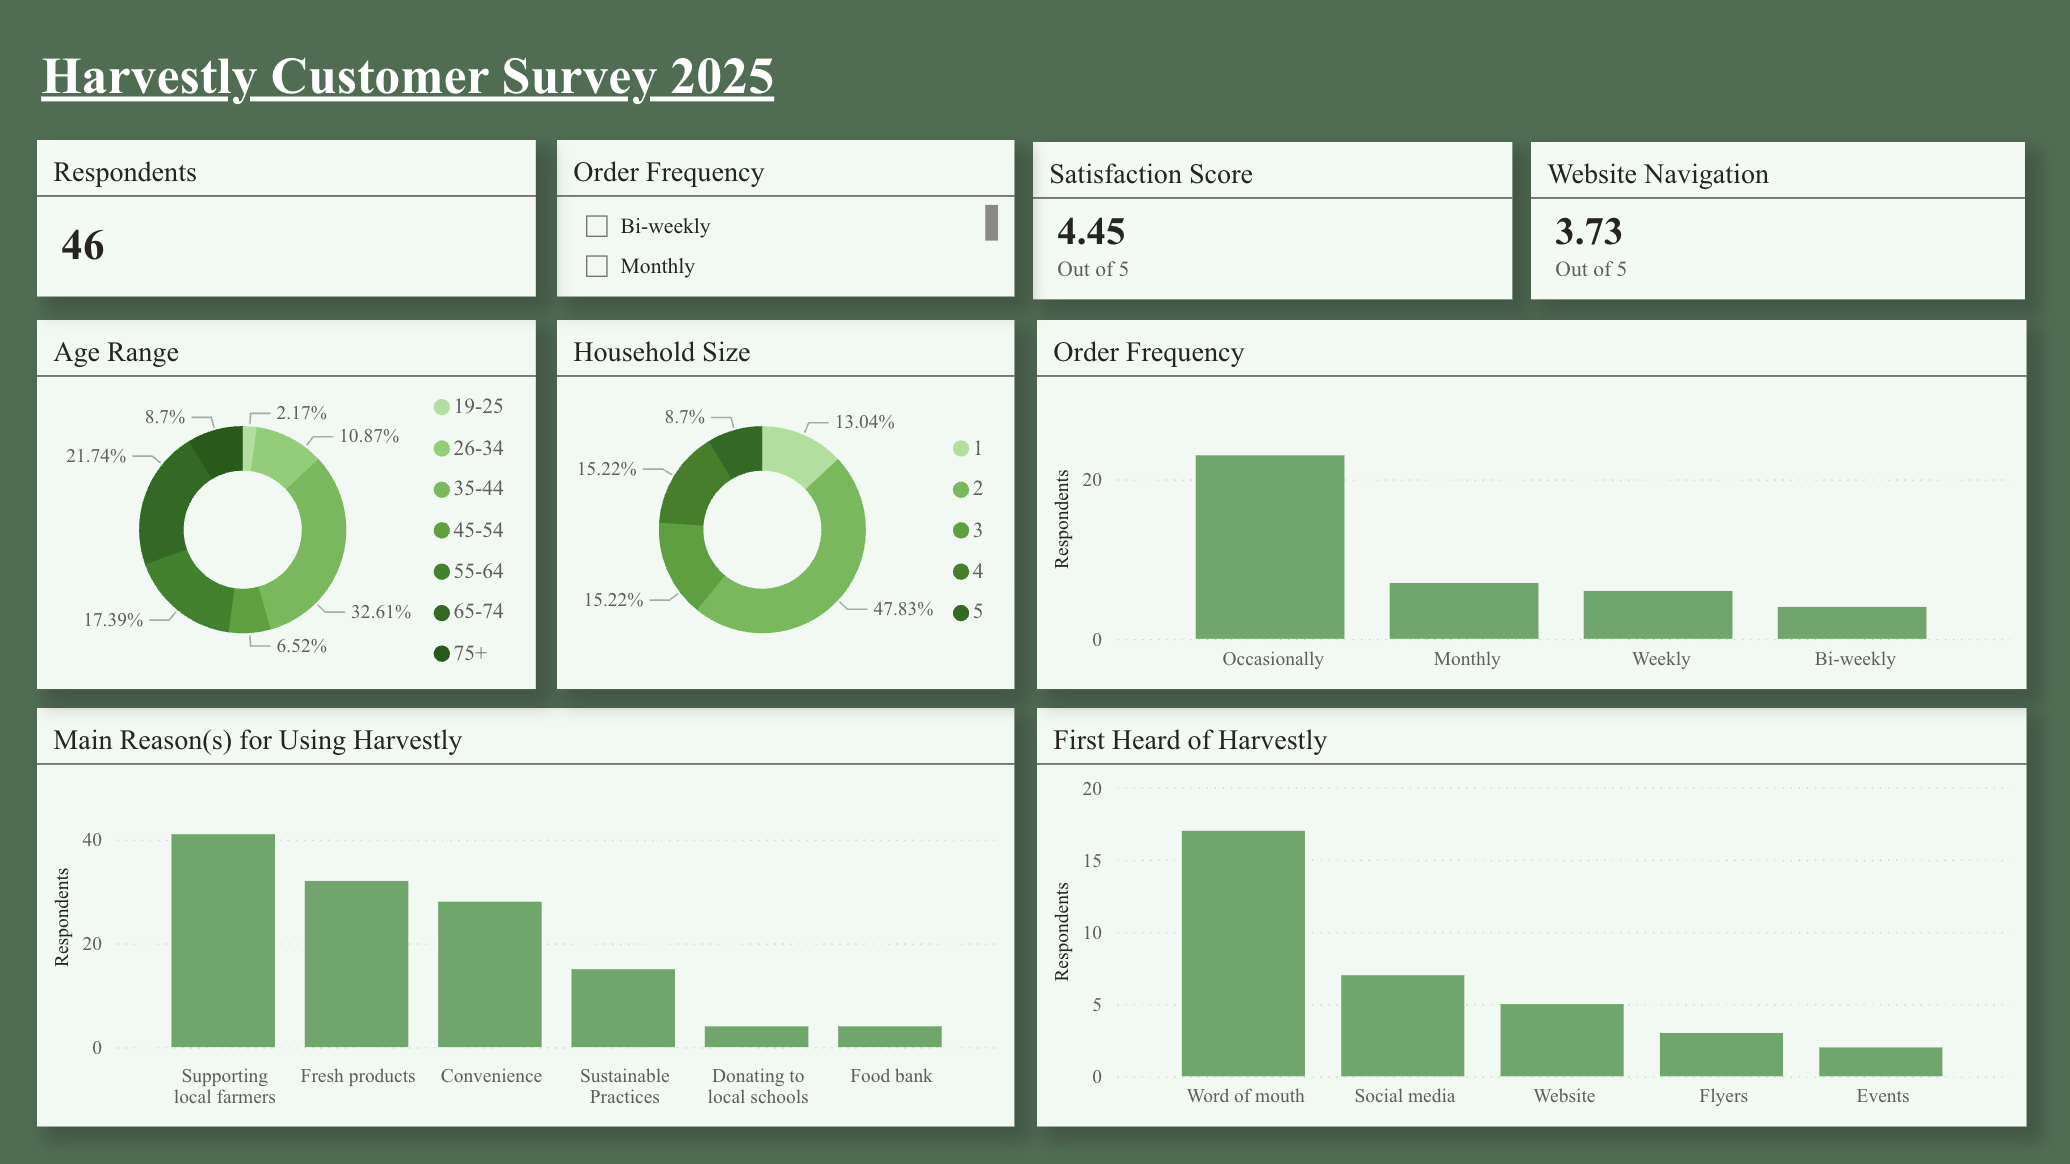
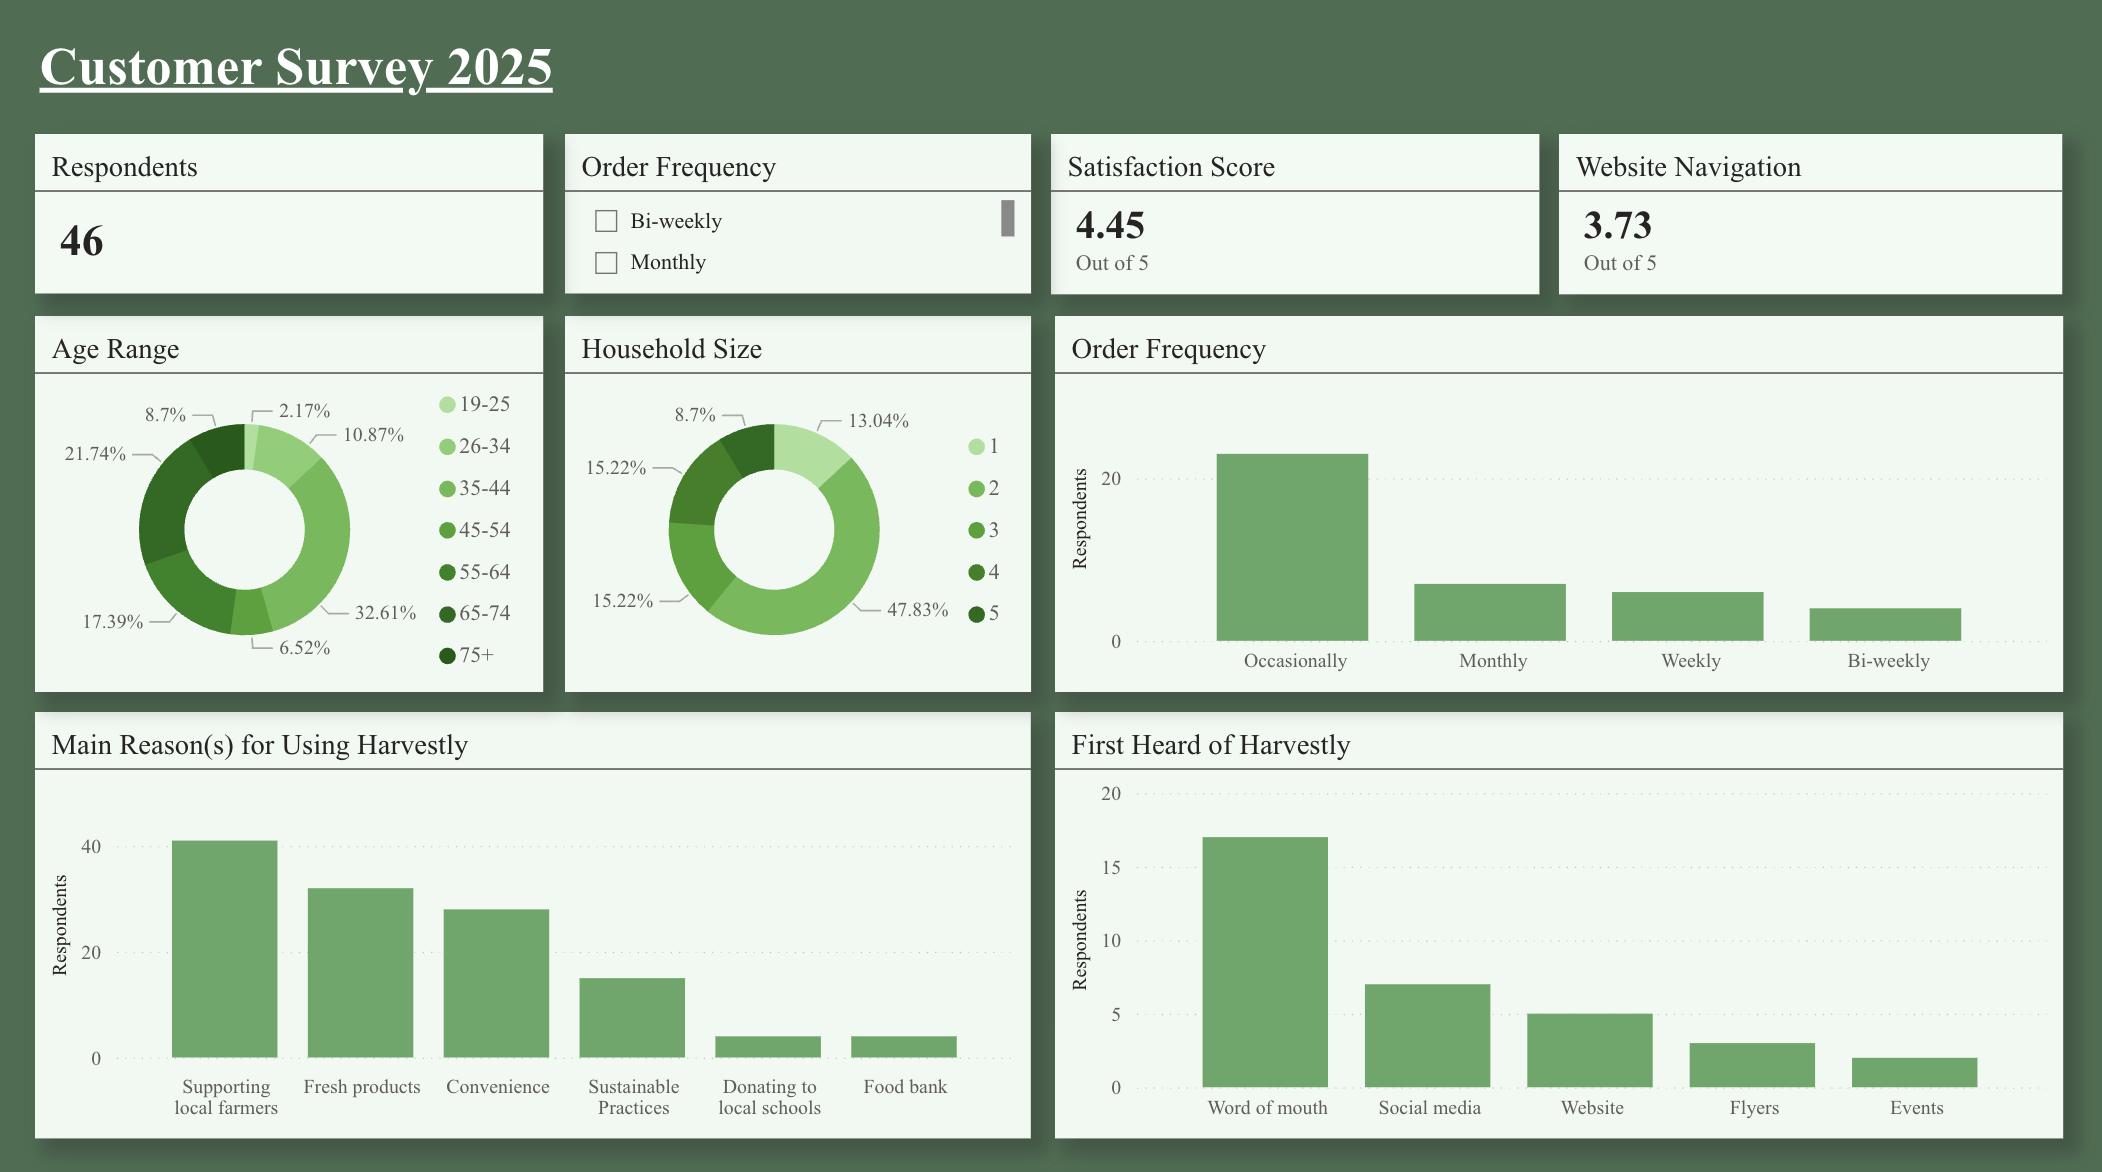
add dashboard2 to portfolio

diff --git a/src/components/Sections/Portfolio.js b/src/components/Sections/Portfolio.js
@@ -33,7 +33,7 @@ function Portfolio() {
                     </div>
                       <Lightbox
                         className="bg-customerdev bg-cover bg-left rounded-b-lg aspect-[15/10] w-full cursor-pointer transition duration-300 ease-in-out hover:brightness-90"
-                        pages={["bg-customerdev", "bg-customerdev"]}
+                        pages={["bg-customerdev", "bg-customerdev2"]}
                       />
                 </div>
               </div>

diff --git a/tailwind.config.js b/tailwind.config.js
@@ -29,6 +29,7 @@ module.exports = {
         drops: "url('assets/drops.png')",
         lss: "url('assets/leansixsigma.png')",
         customerdev: "url('assets/customerdev.png')",
+        customerdev2: "url('assets/customerdev2.png')",
         transition: "url('assets/bluetransition1.png')",
         transition1: "url('assets/bluetransition2.png')",
         transition2: "url('assets/bluetransition2.png')",
